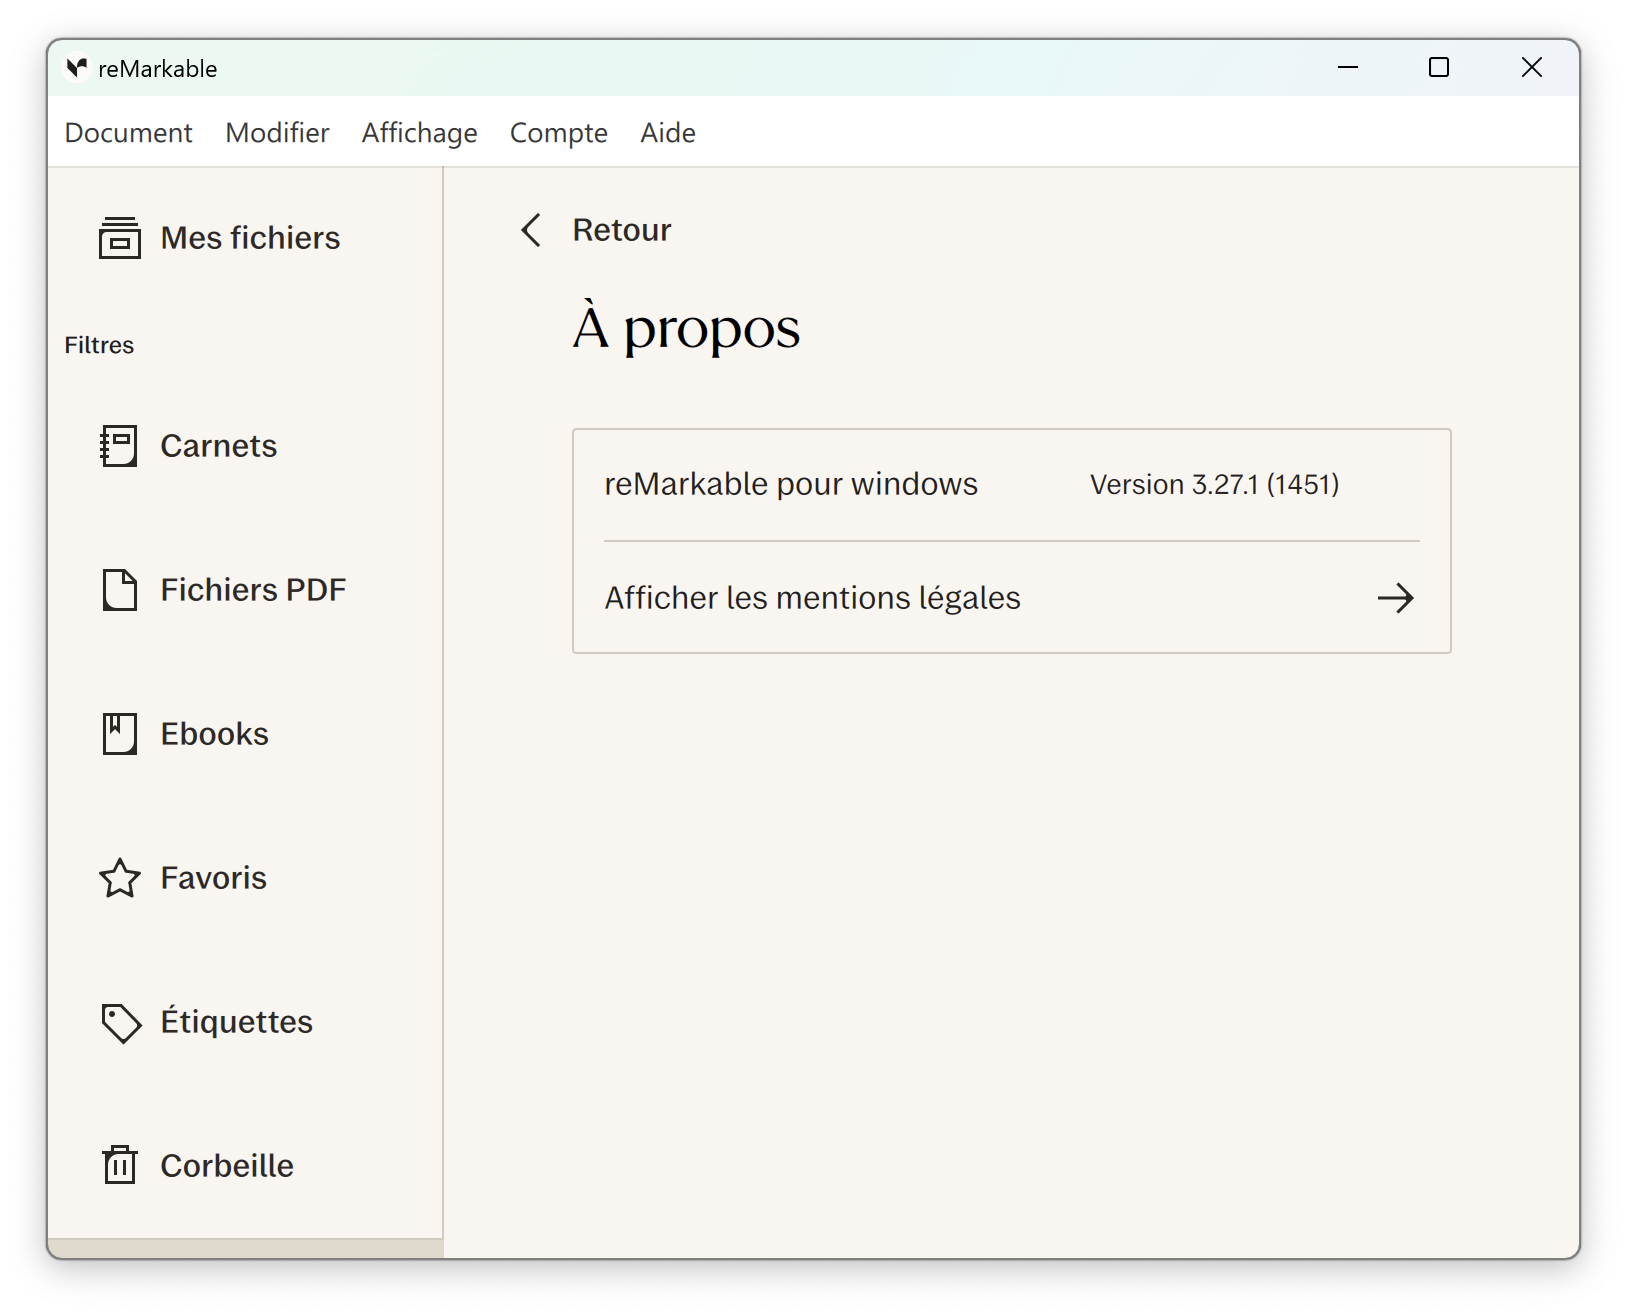
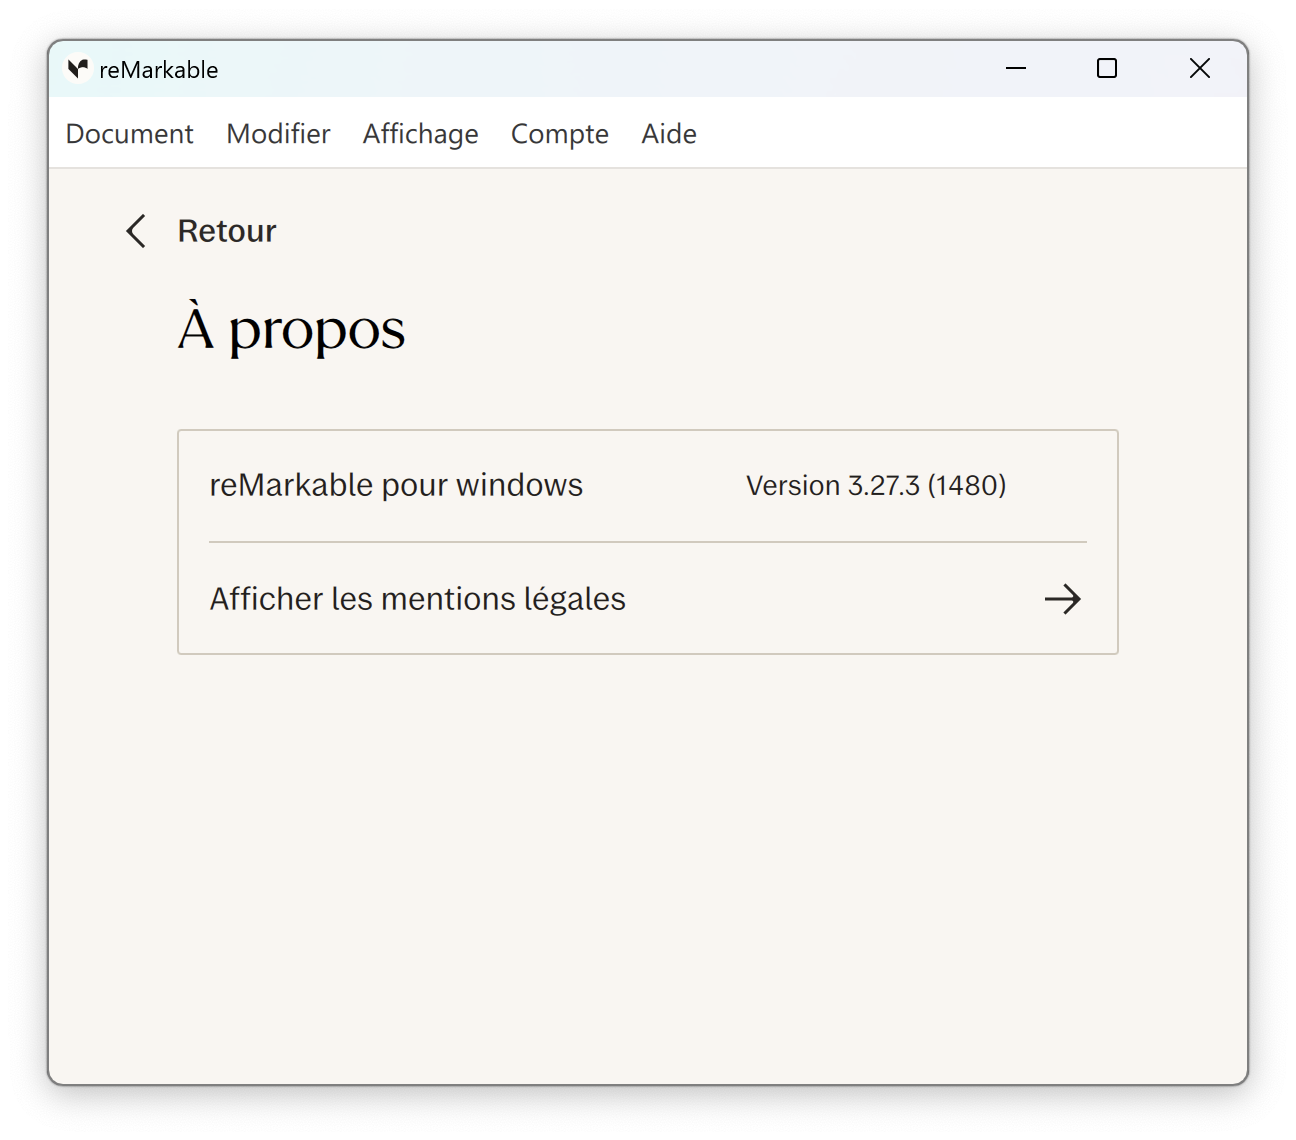
Update support info for Desktop v3.27.3

diff --git a/README.md b/README.md
@@ -15,11 +15,11 @@ RMHook-Win intercepts the reMarkable Desktop app's Qt networking layer and patch
 ## Compatibility
 
 **Tested and working on:**
-- reMarkable Desktop v3.27.1 (released 2026-06-05)
+- reMarkable Desktop v3.27.3 (released 2026-08-20)
 
 <p align="center">
-  <img src="docs/latest.png" width="40%" />
-  <img src="docs/rm.png" width="50%" />
+  <img src="docs/latest.png" width="45%" />
+  <img src="docs/rm.png" width="45%" />
 </p>
 
 ## Installation and usage
